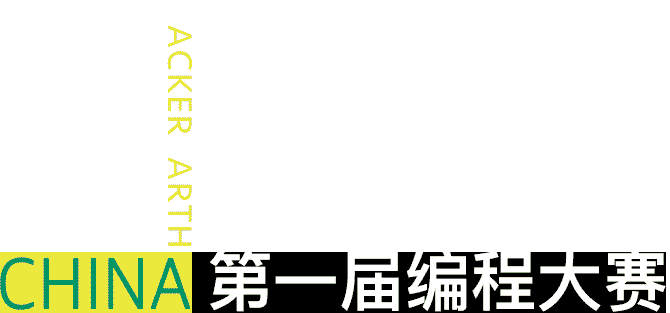
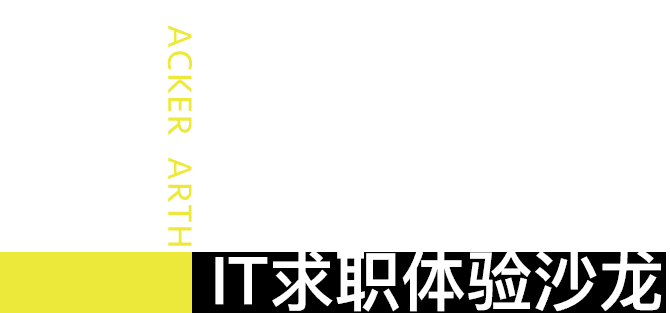
界面调整

diff --git a/register_site/templates/index.html b/register_site/templates/index.html
@@ -9,16 +9,17 @@
 	<div class="monkey-container">
 		<img class="monkey" src='{% static "img/monkey.png" %}'></img>
 	</div>
-	<div class="title main_title"><strong>第一届大学生编程大赛</strong></div>
+	<div class="title main_title"><strong>大学生IT人才求职体验沙龙</strong></div>
 </div>
 
 <div class="shout-container">
-	<img class="shout" src='{% static "img/shout.png" %}'></img>
+	<div class="trapezoid_top"></div>
 </div>
 
 <div class="time">
 	<p class="title">报名时间</p>
-	<p class="date">4月26日 - 5月10日</p>
+	<p class="date">4月27日 - 5月10日</p>
+	<p class="limit">（限额50名同学参加）</p>
 	<div class="trapezoid"></div>
 </div>
 
@@ -38,57 +39,59 @@
 	</p>
 
 	<div class="section-head">
-		<h3 class="text">比赛时间</h3>
+		<h3 class="text">活动流程</h3>
 	</div>
 	<div class="content">
-		<p class="date">2017年5月13日</p>
+		<p class="date">2017年5月13日下午</p>
 		<table class='time-table'>
 			<tbody>
 				<tr>
-					<td class='time-duration'>10:00-12:00</td>
-					<td class='agenda'>上半场</td>
+					<td class='time-duration'>13:00-14:00</td>
+					<td class='agenda'>学校集合统一坐车至沙龙地点</td>
 				</tr>
 				<tr>
-					<td class='time-duration'>12:00-12:30</td>
-					<td class='agenda'>中场休息 免费提供午餐</td>
+					<td class='time-duration'>14:00-14:30</td>
+					<td class='agenda'>宣讲IT专业技能测评规则</td>
 				</tr>
 				<tr>
-					<td class='time-duration'>12:30-14:30</td>
-					<td class='agenda'>下半场</td>
+					<td class='time-duration'>14:30-16:30</td>
+					<td class='agenda'>IT专业技能评测</td>
 				</tr>
 				<tr>
-					<td class='time-duration'>14:30-15:00</td>
-					<td class='agenda'>评审</td>
+					<td class='time-duration'>16:30-17:30</td>
+					<td class='agenda'>讲座：企业挑选实习生时看重的是什么？</td>
 				</tr>
 				<tr>
-					<td class='time-duration'>15:30</td>
-					<td class='agenda'>颁奖典礼</td>
+					<td class='time-duration'>17:30-18:00</td>
+					<td class='agenda'>宣布评测结果及颁奖</td>
 				</tr>
 			</tbody>
 		</table>
 	</div>
 
 	<div class="section-head">
-		<h3 class="text">比赛奖品</h3>
+		<h3 class="text">测评奖项设置</h3>
 	</div>
 	<div class="content">
 		<p class="prize">一等奖</p>
-		<p class="trophie">高端键鼠一套 (1300元)</p>
+		<p class="trophie">现金1000元</p>
 		<p class="prize">二等奖</p>
-		<p class="trophie">耳机 (800元)</p>
+		<p class="trophie">现金500元</p>
 		<p class="prize">三等奖</p>
-		<p class="trophie">鼠标 (400元)</p>
+		<p class="trophie">现金300元</p>
 		<p class="prize">效率奖</p>
-		<p class="trophie">键盘 (400元)</p>
-		<p class="prize">特别奖</p>
+		<p class="trophie">现金300元</p>
+		<p class="prize">参与奖</p>
+		<p class="trophie">SOMETHING GOOD</p>
 	</div>
 
 	<div class="reference">
 		<p class="role">主办单位</p>
-		<p class="inst">HackerEarth China</p>
-		<p class="role">承办方</p>
+		<p class="inst">梦思特科技(成都)有限公司HACKEREARTH CHAINA事业部</p>
+		<p class="role">协办方</p>
 		<p class="inst">电子科大计算机学院 TCL创意俱乐部</p>
 		<p class="qq">大赛讨论QQ群: 608623743</p>
+		<img class="logo" src="{% static 'img/all_logo.png' %}">
 	</div>
 </div>
 

diff --git a/register_site/static/css/common.css b/register_site/static/css/common.css
@@ -85,10 +85,10 @@ body {
 	width: 100%;
 }
 .title {
-	width: 574px;
+	width: 650px;
 	height: 71px;
 	color: #fff;
-	font-size: 2rem;
+	font-size: 2.2rem;
 	background-color: #107769;
 	text-align: center;
 	margin-left: auto;
@@ -97,9 +97,16 @@ body {
 	overflow: hidden;
 }
 .shout-container {
-	background-color: #00926a;
-	padding-left: 15px;
-	padding-right: 15px;
+	height: 120px;
+	width: 650px;
+	margin: auto;
+}
+.trapezoid_top{
+	border-top: 50px solid #118b7a;
+	
+	border-left: 155px solid transparent;
+	border-right: 155px solid transparent;
+	width: 100%;
 }
 .shout {
 	width: 100%;
@@ -110,14 +117,16 @@ body {
 	margin-top: -70px;
 	width: 100%;
 	padding-top: 65px;
-	height: 158px;
+	height: 220px;
+	overflow: hidden;
 }
 .time > p {
-	color: #fff100;
+	color: #fff;
 	background-color: transparent;
 	margin-bottom: 10px;
 	position: absolute;
 	z-index: 10;
+	
 }
 .time > .title {
 	font-size: 1.6rem;
@@ -129,16 +138,27 @@ body {
 .time > .date {	
 	font-size: 2rem;
 	width: 100%;
-	bottom: 15%;
+	vertical-align: middle;
 	font-weight: 500;
 }
+.time > .limit{
+	font-size: 1.4rem;
+	width: 100%;
+	bottom: 15%;
+	font-weight: 400;
+	color: #fff100;
+	bottom: 15%;
+}
+
 .trapezoid {
-	border-bottom: 160px solid #0e786a;
-	border-left: 207px solid transparent;
-	border-right: 215px solid transparent;
+	border-bottom: 220px solid #0e786a;
+	border-left: 275px solid transparent;
+	border-right: 275px solid transparent;
 	width: 100%;
 	position: absolute;
 	top: 0;
+	left: -10%;
+	width: 120%;
 }
 
 .intro {
@@ -155,6 +175,13 @@ body {
 }
 .intro > * {
 }
+
+
+.logo{
+	padding-top: 20px;
+}
+
+
 .section-head {
 	width: 100%;
 	font-size: 0;

diff --git a/register_site/register/migrations/0003_auto_20170426_1514.py b/register_site/register/migrations/0003_auto_20170426_1514.py
@@ -1,0 +1,43 @@
+# -*- coding: utf-8 -*-
+# Generated by Django 1.10.5 on 2017-04-26 07:14
+from __future__ import unicode_literals
+
+from django.db import migrations, models
+
+
+class Migration(migrations.Migration):
+
+    dependencies = [
+        ('register', '0002_auto_20170424_2008'),
+    ]
+
+    operations = [
+        migrations.AddField(
+            model_name='registermessage',
+            name='campus',
+            field=models.CharField(choices=[('s', '\u6c99\u6cb3\u6821\u533a'), ('q', '\u6e05\u6c34\u6cb3\u6821\u533a')], default='q', max_length=1),
+            preserve_default=False,
+        ),
+        migrations.AddField(
+            model_name='registermessage',
+            name='grade',
+            field=models.CharField(choices=[('f', '\u5927\u4e00'), ('sf', '\u5927\u4e8c'), ('j', '\u5927\u4e09'), ('sn', '\u5927\u56db'), ('m', '\u7814\u7a76\u751f')], default='f', max_length=2, verbose_name='\u5e74\u7ea7'),
+            preserve_default=False,
+        ),
+        migrations.AddField(
+            model_name='registermessage',
+            name='language',
+            field=models.CharField(blank=True, max_length=12, null=True),
+        ),
+        migrations.AddField(
+            model_name='registermessage',
+            name='major',
+            field=models.CharField(default='computer', max_length=20),
+            preserve_default=False,
+        ),
+        migrations.AddField(
+            model_name='registermessage',
+            name='qq',
+            field=models.CharField(blank=True, max_length=12, null=True),
+        ),
+    ]

diff --git a/register_site/register/models.py b/register_site/register/models.py
@@ -27,8 +27,8 @@ class RegisterMessage(models.Model):
 	email = models.EmailField(null=False)
 	qq = models.CharField(max_length=12, null=True, blank=True)
 	language = models.CharField(max_length=12, blank=True, null=True)
-	campus = models.CharField(max_length=1, choice=CAMPUS_CHOICE)
-	grade = models.CharField('年级', max_length=2, choice=GRADES)
+	campus = models.CharField(max_length=1, choices=CAMPUS_CHOICE)
+	grade = models.CharField('年级', max_length=2, choices=GRADES)
 	major = models.CharField(max_length=20)
 	register_date = models.DateTimeField(auto_now_add=True)
 
